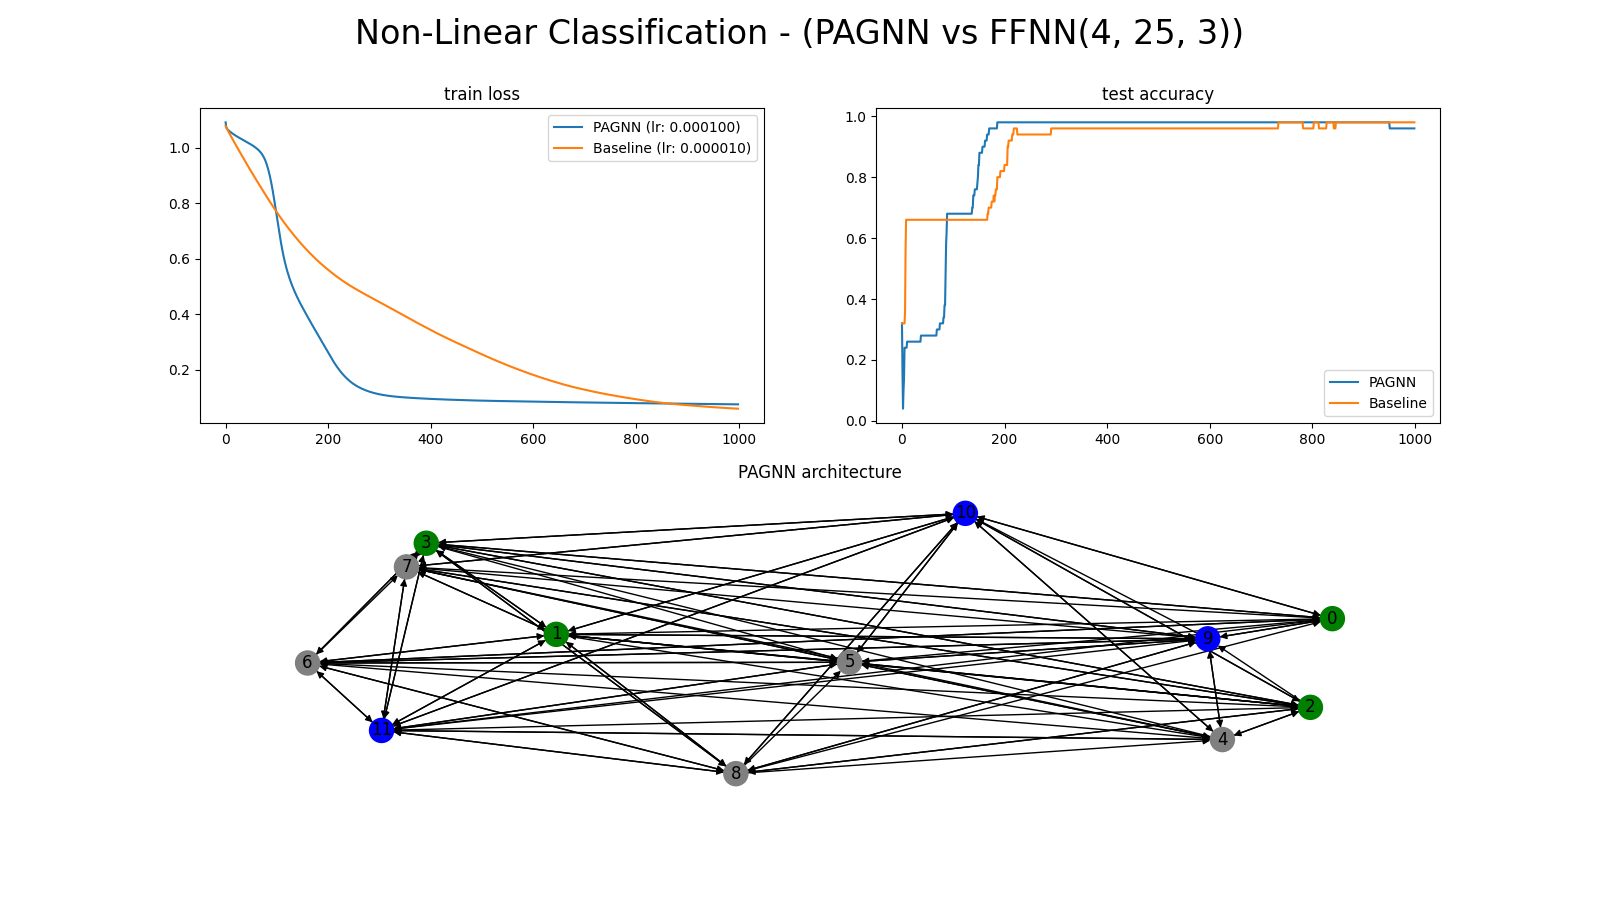
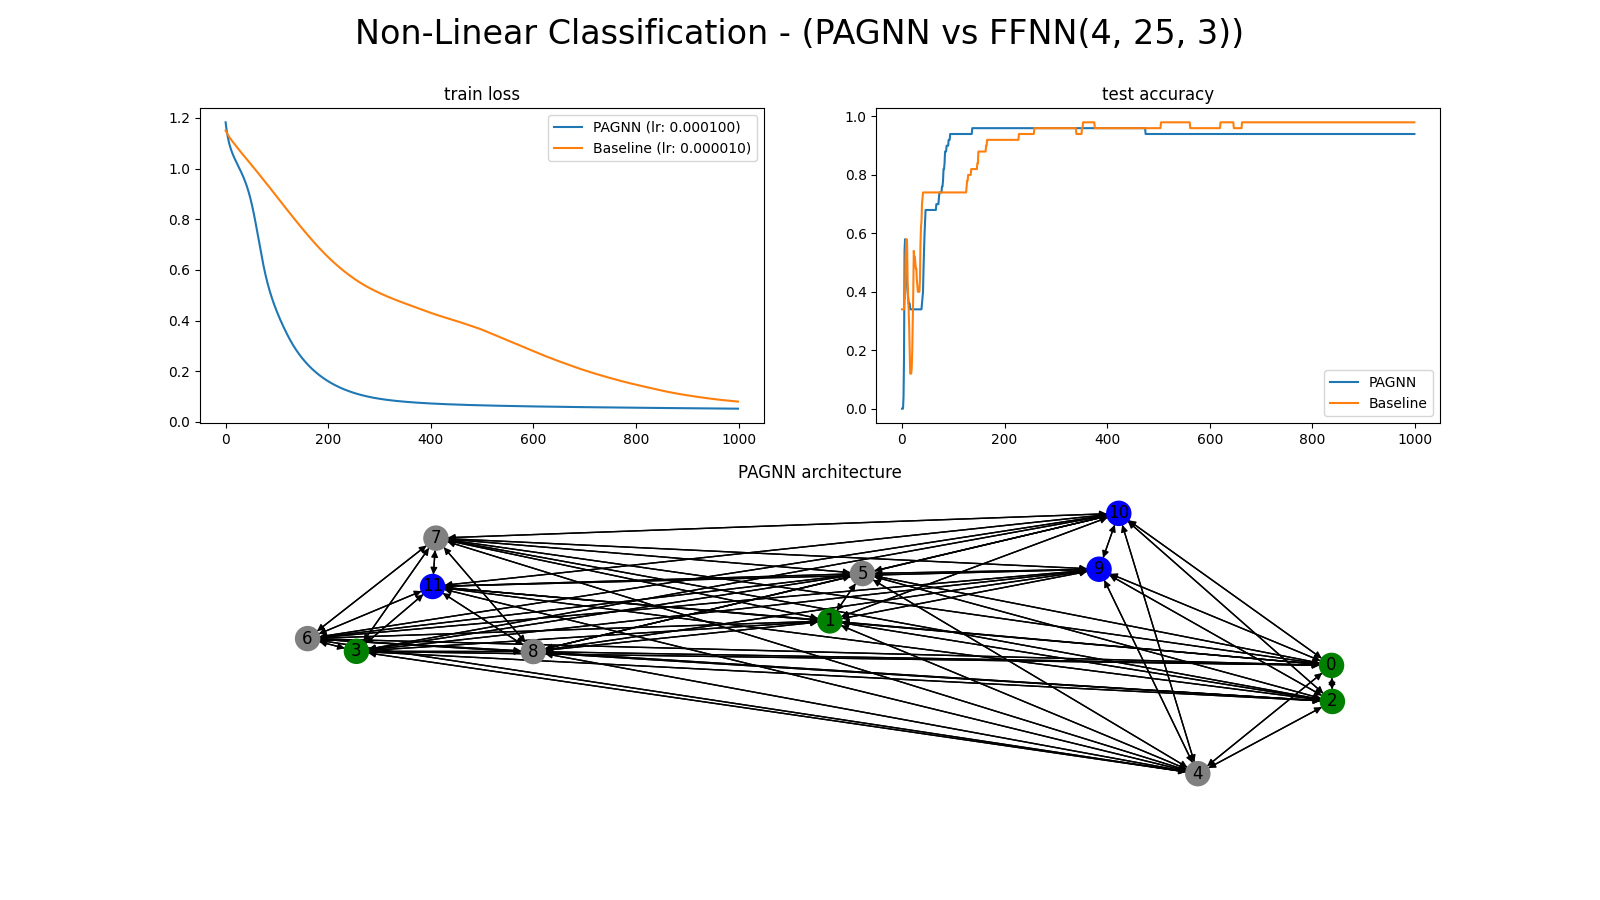
use networkx complete_graph generator

diff --git a/comparisons/non_linear_classification.py b/comparisons/non_linear_classification.py
@@ -69,7 +69,7 @@ if __name__ == '__main__':
     print('number of classes:', C)
 
     # create models
-    pagnn = PAGNN(D + C + 5, D, C, initial_sparsity=0.2)
+    pagnn = PAGNN(D + C + 5, D, C, graph_generator=nx.generators.classic.complete_graph)
     print(pagnn)
     linear_model = FFNN(D, 25, C) # torch.nn.Linear(D, C)
     print(linear_model)
